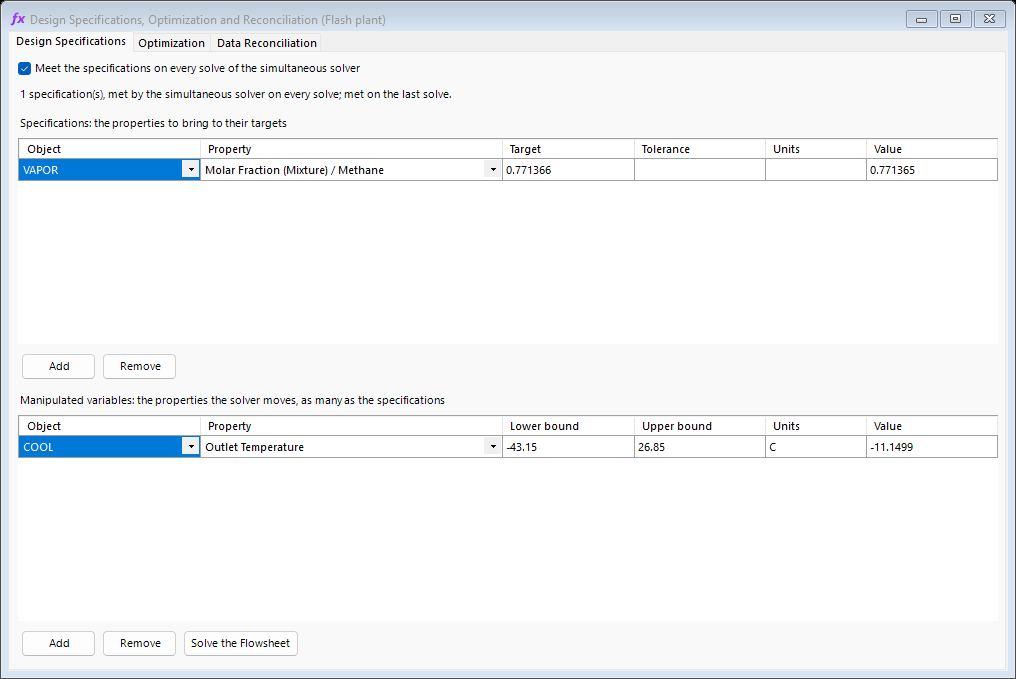
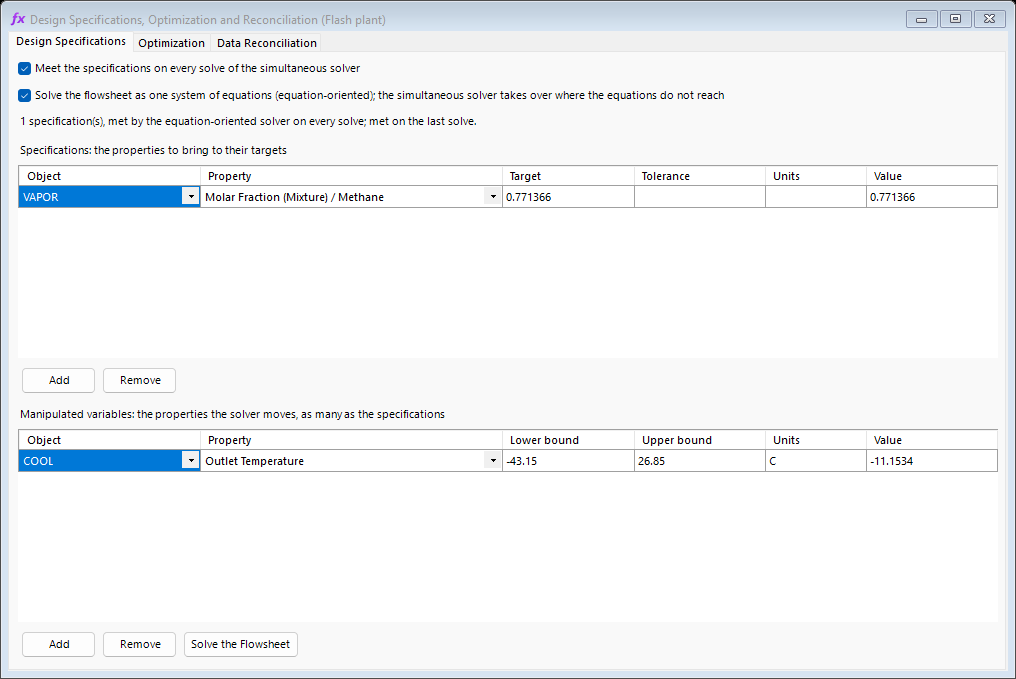
docs: offline help for the equation-oriented solver
- Equation-Oriented Solver section: equations, units with their own equations, black boxes, adjusts and specifications, hand-over to the simultaneous solver, performance and limitations
- design specifications screenshot with the equation-oriented option

diff --git a/helpsystem/docs/29-simultaneous-flowsheet-solver.md b/helpsystem/docs/29-simultaneous-flowsheet-solver.md
@@ -168,7 +168,7 @@ The target is in the units shown. An empty tolerance stands for $10^{-6}$ of the
 
 ###### When they are met
 
-On every steady-state solve with the solver strategy set to Simultaneous or Auto (Auto takes the simultaneous solver whenever there are active specifications), while **Meet the specifications on every solve of the simultaneous solver** is checked. The line under the check box says whether they are met, and why not when they are not. A solve with specifications that does not converge is reported as failed: the sequential solver knows nothing of them, so the flowsheet is not handed to it. The usual reason is a target out of reach within the bounds of the variables, and the message names the variable held at its bound.
+On every steady-state solve with the solver strategy set to Simultaneous or Auto (Auto takes the simultaneous solver whenever there are active specifications), while **Meet the specifications on every solve of the simultaneous solver** is checked. The line under the check box says whether they are met, and why not when they are not. A solve with specifications that does not converge is reported as failed: the sequential solver knows nothing of them, so the flowsheet is not handed to it. The usual reason is a target out of reach within the bounds of the variables, and the message names the variable held at its bound. With **Solve the flowsheet as one system of equations (equation-oriented)** checked, the specifications are equations of the equation-oriented solver (Section [Equation-Oriented Solver](#sec:equation_oriented)).
 
 ##### Optimization
 
@@ -246,3 +246,71 @@ The redundancy is the number of measurements less the number of inputs moved (an
 ###### Results
 
 The line under the buttons gives the iterations, the flowsheet solves, the method, the sum of squares, the redundancy, the global test and the suspect measurement; the log lists every measurement and input in the units of the flowsheet. The flowsheet is left at the reconciled inputs.
+
+#### Equation-Oriented Solver {#sec:equation_oriented}
+
+The equation-oriented solver (Patreon Edition) solves the whole flowsheet as one system of equations. Its unknowns are the temperature, the pressure and the molar flow of each compound of every material stream; each unit operation writes the equations that tie its outlets to its inlets, and a damped Newton method solves all of them at once, with no pass of the unit operations inside the iteration. It is turned on with **Solve the flowsheet as one system of equations (equation-oriented)** in the **Design Specifications** tab of the window above (Figure [1](#fig:simultaneous_specifications)), and the choice is saved with the file. From then on every steady-state solve with the solver strategy set to Simultaneous or Auto goes to it first; Auto takes it whenever the box is checked.
+
+##### Equations
+
+Every residual is divided by the tolerance of its kind: $10^{-3}$ K for a temperature, 1 Pa for a pressure, $10^{-7}$ of the stream's molar flow for the flow of a compound and $10^{-4}$ kW per mol/s for an energy balance. The system is converged when
+
+
+<a id="eq:eo_converged"></a>
+
+\[
+\max_i \frac{\left|r_i(\mathbf{x})\right|}{\varepsilon_i} \le 1\tag{6}
+\]
+
+
+The phase equilibrium is a submodel: the PT flash of the property package, with the enthalpy and entropy of each phase. The derivatives of the phase split, the enthalpy and the entropy with respect to temperature, pressure and the moles come from the implicit function theorem on the equality of fugacities, so the unit operations below give their Jacobian analytically:
+
+| **Unit operation** | **Modes with equations of their own** |
+|:---|:---|
+| Mixer | without an energy inlet: flows, pressure by its rule, energy balance |
+| Splitter | split ratios |
+| Heater, Cooler | outlet temperature |
+| Valve | pressure drop or outlet pressure (isenthalpic) |
+| Pump | pressure increase or outlet pressure: the liquid takes $\Delta P/(\rho_L\,\eta)$ times its mass flow |
+| Compressor | adiabatic path, with pressure increase, outlet pressure or pressure ratio: the isentropic enthalpy rise over the efficiency |
+| Gas-Liquid Separator | adiabatic or at a set temperature, at the pressure of its inlets, two outlets |
+| Heat Exchanger | outlet temperature of one side, heat load, or $U$ and $A$ with $Q = U A F\,\Delta T_{\mathrm{lm}}$ |
+| Conversion Reactor | reactions in the mixture; adiabatic with one group of reactions, isothermal or at an outlet temperature |
+
+Feeds keep their state, and a Recycle block makes its outlet equal to its inlet.
+
+###### Black boxes
+
+A unit operation in another mode, an Expander, a Tank, a Component Separator or a Shortcut Column enters through its own calculation: its inlets are put at their variables and flashed there, the unit is calculated, and its residuals are
+
+
+<a id="eq:eo_blackbox"></a>
+
+\[
+\mathbf{r} = \mathbf{x}_{\mathrm{out}} - \mathbf{f}_{\mathrm{unit}}(\mathbf{x}_{\mathrm{in}})\tag{7}
+\]
+
+
+with derivatives by central differences of 0.1 %. The unit's own convergence noise makes these slower than the units with equations.
+
+###### Adjusts and design specifications
+
+Each active Adjust and each active design specification adds an unknown, the property it manipulates, and an equation, the controlled property at its target over the tolerance (the Adjust's own tolerance). The manipulated property is a number the unit's equations read (an outlet temperature, a pressure drop, a split ratio, a feed's flow) or, for a black box, a property written into the unit before it is calculated.
+
+###### The simultaneous solver takes over
+
+A flowsheet with a stream of a package that treats it as one compound (Steam Tables, single-compound streams, the CoolProp incompressible mixtures), a unit operation outside the table and the black-box list (rigorous columns; Equilibrium, Gibbs, CSTR and PFR reactors; CAPE-OPEN units; Spec blocks), two liquid phases in a flash, or a Newton iteration that does not converge is handed to the simultaneous solver, with a message that gives the reason.
+
+###### After the solve
+
+The solution is written into the streams and one pass of the unit operations runs on it, so every unit holds its results. The log lists the largest residual of each iteration with its equation, and the last line gives the iterations, the equations, the flashes, the calculations of black boxes and the time.
+
+###### Performance
+
+On the Cavett problem (four flash drums at set temperatures, three compressors, a mixer and three recycles) the solver closes 360 equations in 3 Newton iterations and 1.1 s, with the recycles closed to $3\times10^{-10}$ kg/s; the simultaneous solver over passes takes 14 s on the same file.
+
+###### Limitations
+
+- A conversion the reactants cannot sustain is not limited the way the Conversion Reactor's own solver limits it.
+- The final pass recalculates the units, whose pressure-enthalpy flashes close to their own tolerance: an outlet temperature can differ from the equation-oriented solution by a few thousandths of a kelvin.
+- The Heat Exchanger's own iteration on $U$ and $A$ stops when the load moves less than 0.1 %; the equation-oriented solver closes $Q = U A F\,\Delta T_{\mathrm{lm}}$, so the two differ by that much.
